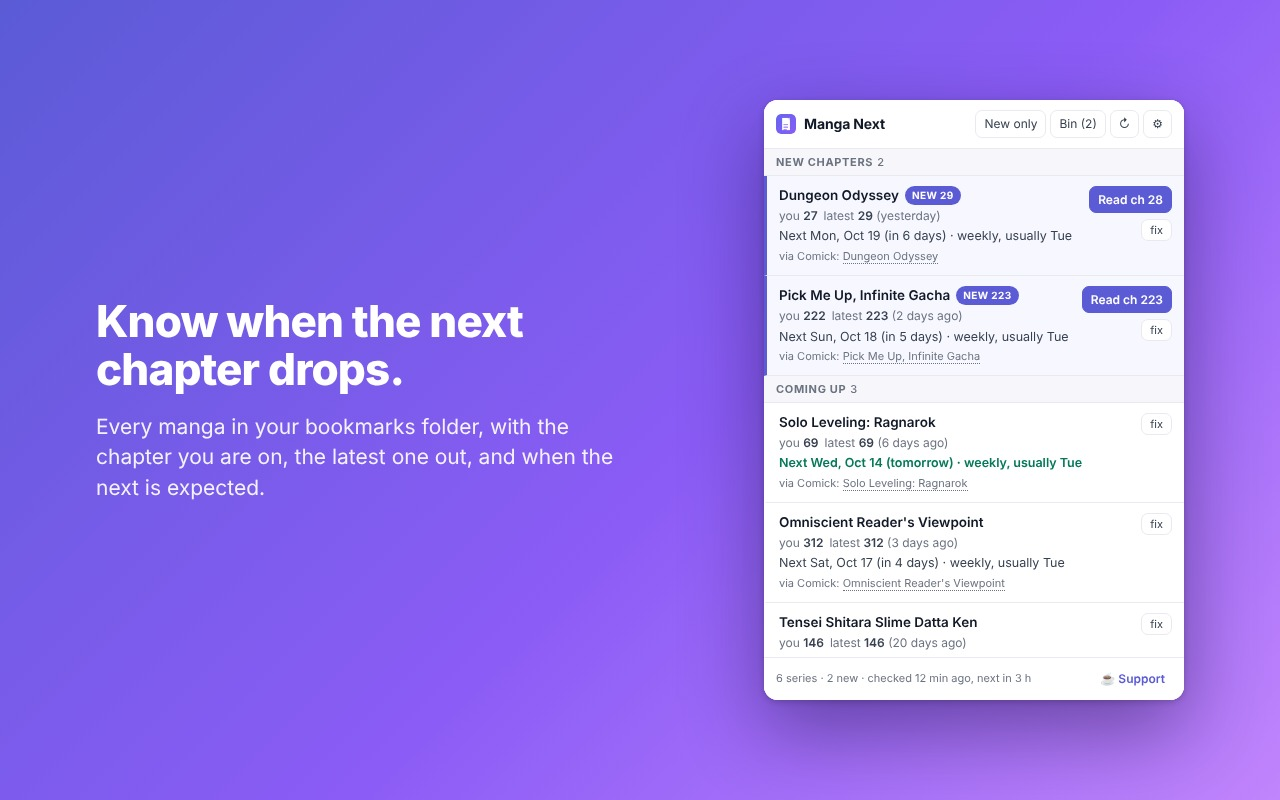
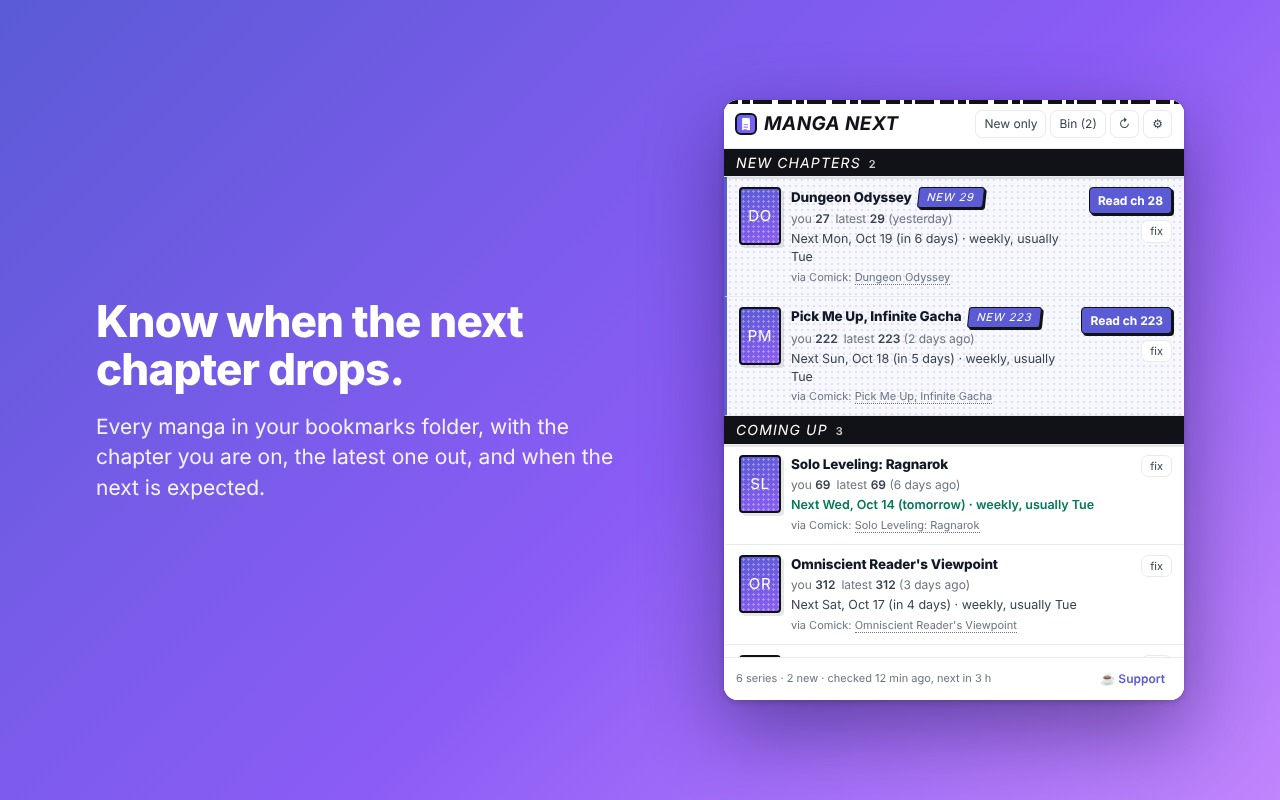
Manga-inspired visual pass, proprietary notice, fuller store description
Screentone textures, ink-black chapter-card section headers, condensed
italic display type for titles and pills, inked covers with offset
shadows, speed-line header rule. Popup widened to 460px. Store
screenshots re-rendered. LICENSE states all rights reserved. Store
description now walks through every feature.

Claude-Session: https://claude.ai/code/session_01XDhHnUEGSVbGAX6cEkKUHb

Changed region(s): [[0.5312, 0.125, 0.9375, 0.9062]]

diff --git a/manga-next/popup.css b/manga-next/popup.css
@@ -1,4 +1,8 @@
 :root {
+  --ink: #111118;
+  --paper: #fffdf7;
+  --tone: rgba(17, 17, 24, .10);
+  --display: Impact, "Arial Narrow Bold", "Franklin Gothic Demi Cond", "Arial Black", system-ui, sans-serif;
   --bg: #ffffff;
   --bg-2: #f7f7fb;
   --fg: #111827;
@@ -18,6 +22,9 @@
 }
 @media (prefers-color-scheme: dark) {
   :root {
+    --ink: #f3f4f6;
+    --paper: #15161c;
+    --tone: rgba(243, 244, 246, .08);
     --bg: #15161c;
     --bg-2: #1c1d25;
     --fg: #f3f4f6;
@@ -39,7 +46,7 @@
 * { box-sizing: border-box; }
 html, body { margin: 0; }
 body {
-  width: 420px;
+  width: 460px;
   max-height: 600px;
   display: flex;
   flex-direction: column;
@@ -63,12 +70,12 @@ header::before {
   content: '';
   position: absolute;
   left: 0; right: 0; top: 0;
-  height: 3px;
-  background: linear-gradient(90deg, #5b5bd6, #8b5cf6 50%, #ec4899);
+  height: 4px;
+  background: repeating-linear-gradient(90deg, var(--ink) 0 14px, transparent 14px 18px, var(--ink) 18px 26px, transparent 26px 29px, var(--ink) 29px 48px, transparent 48px 54px);
 }
 .brand { display: flex; align-items: center; gap: 8px; min-width: 0; }
-.brand img { border-radius: 5px; flex: none; }
-h1 { font-size: 14px; font-weight: 700; margin: 0; letter-spacing: -.01em; white-space: nowrap; }
+.brand img { border-radius: 5px; flex: none; outline: 2px solid var(--ink); outline-offset: -1px; }
+h1 { font: 700 19px/1 var(--display); margin: 0; letter-spacing: .02em; white-space: nowrap; text-transform: uppercase; font-style: italic; color: var(--ink); }
 .status { color: var(--muted); font-size: 11px; white-space: nowrap; }
 .status:not(:empty)::before { content: ' · '; }
 .actions { display: flex; align-items: center; gap: 4px; flex: none; }
@@ -96,19 +103,19 @@ main { flex: 1; overflow-y: auto; }
   position: sticky;
   top: 0;
   z-index: 1;
-  padding: 6px 12px 4px;
-  font-size: 11px;
-  font-weight: 700;
-  letter-spacing: .06em;
+  padding: 5px 12px 4px;
+  font: 400 14px/1.3 var(--display);
+  letter-spacing: .08em;
   text-transform: uppercase;
-  color: var(--muted);
-  background: var(--bg-2);
+  font-style: italic;
+  color: var(--paper);
+  background: var(--ink);
   border-bottom: 1px solid var(--border);
+  box-shadow: 0 2px 0 var(--tone);
 }
-.section .count { font-weight: 500; letter-spacing: 0; text-transform: none; margin-left: 4px; }
-.section.forYou { color: #a21caf; background: linear-gradient(90deg, color-mix(in srgb, #ec4899 10%, var(--bg-2)), var(--bg-2)); }
-@media (prefers-color-scheme: dark) { .section.forYou { color: #f0abfc; } }
-.row.suggest { border-left-color: #ec4899; }
+.section .count { font: 600 11px/1 system-ui, sans-serif; letter-spacing: 0; text-transform: none; font-style: normal; margin-left: 8px; opacity: .8; }
+.section.forYou { background: linear-gradient(90deg, #ec4899, #8b5cf6); color: #fff; }
+.row.suggest { border-left-color: #ec4899; background: radial-gradient(var(--tone) 1px, transparent 1.4px) 0 0 / 6px 6px; }
 .links { display: flex; align-items: center; gap: 8px; margin-top: 6px; flex-wrap: wrap; }
 .links a { color: var(--accent); font-size: 12px; text-decoration: none; }
 .links a:hover { text-decoration: underline; }
@@ -125,47 +132,57 @@ button.ghost:hover { border-color: var(--border); color: var(--fg); background: 
   border-bottom: 1px solid var(--border);
   border-left: 3px solid transparent;
 }
-.row.new { border-left-color: var(--accent); background: color-mix(in srgb, var(--accent-soft) 45%, var(--bg)); }
+.row.new {
+  border-left-color: var(--accent);
+  background:
+    radial-gradient(var(--tone) 1px, transparent 1.4px) 0 0 / 6px 6px,
+    color-mix(in srgb, var(--accent-soft) 45%, var(--bg));
+}
 .row.warn { border-left-color: var(--warn); }
 .row.bad { border-left-color: var(--bad); }
 .row .main { min-width: 0; cursor: pointer; display: flex; gap: 10px; align-items: flex-start; }
 .row .body { min-width: 0; flex: 1; }
 .cover {
   flex: none;
-  width: 40px;
-  height: 56px;
-  border-radius: 6px;
+  width: 42px;
+  height: 58px;
+  border-radius: 4px;
   overflow: hidden;
-  background: linear-gradient(160deg, #5b5bd6, #8b5cf6);
+  background: radial-gradient(rgba(255,255,255,.35) 1px, transparent 1.4px) 0 0 / 5px 5px, linear-gradient(160deg, #5b5bd6, #8b5cf6);
   color: #fff;
-  font-weight: 700;
-  font-size: 13px;
+  font: 400 15px/1 var(--display);
+  letter-spacing: .04em;
   display: flex;
   align-items: center;
   justify-content: center;
-  box-shadow: 0 1px 3px rgba(0,0,0,.25);
+  border: 2px solid var(--ink);
+  box-shadow: 3px 3px 0 var(--tone);
 }
 .cover img { width: 100%; height: 100%; object-fit: cover; display: block; }
 .row .main:hover .name { color: var(--accent); }
 .row .title { display: flex; align-items: center; gap: 6px; min-width: 0; }
-.row .name { font-weight: 600; font-size: 13.5px; overflow: hidden; text-overflow: ellipsis; white-space: nowrap; transition: color .12s; }
+.row .name { font-weight: 800; font-size: 13.5px; letter-spacing: -.01em; overflow: hidden; text-overflow: ellipsis; white-space: nowrap; transition: color .12s; }
 .row .side { display: flex; flex-direction: column; align-items: flex-end; gap: 6px; }
 
 .pill {
   flex: none;
-  font-size: 10px;
-  font-weight: 700;
-  letter-spacing: .04em;
-  padding: 2px 7px;
-  border-radius: 999px;
+  font: 400 11px/1.2 var(--display);
+  letter-spacing: .08em;
+  text-transform: uppercase;
+  font-style: italic;
+  padding: 3px 8px;
+  border-radius: 3px;
   background: var(--accent);
   color: var(--accent-fg);
   white-space: nowrap;
+  border: 1.5px solid var(--ink);
+  box-shadow: 2px 2px 0 var(--ink);
+  transform: skew(-6deg);
 }
 .pill.warn { background: var(--warn-soft); color: var(--warn); }
 .pill.bad { background: var(--bad-soft); color: var(--bad); }
 .pill.ok { background: var(--ok-soft); color: var(--ok); }
-.pill.muted { background: var(--bg-2); color: var(--muted); border: 1px solid var(--border); }
+.pill.muted { background: var(--bg-2); color: var(--muted); border-color: var(--border); box-shadow: none; transform: none; font-style: normal; }
 
 .meta { color: var(--muted); font-size: 12px; margin-top: 2px; display: flex; gap: 6px; flex-wrap: wrap; }
 .meta b { color: var(--fg-2); font-weight: 600; }
@@ -180,12 +197,14 @@ button.ghost:hover { border-color: var(--border); color: var(--fg); background: 
 
 button.read {
   background: var(--accent);
-  border-color: var(--accent);
+  border: 1.5px solid var(--ink);
+  box-shadow: 2px 2px 0 var(--ink);
   color: var(--accent-fg);
-  font-weight: 600;
+  font-weight: 700;
   white-space: nowrap;
+  border-radius: 4px;
 }
-button.read:hover { filter: brightness(1.08); color: var(--accent-fg); }
+button.read:hover { filter: brightness(1.08); color: var(--accent-fg); transform: translate(1px, 1px); box-shadow: 1px 1px 0 var(--ink); }
 button.fix, button.restore { font-size: 11px; padding: 3px 8px; }
 
 .fixbox { grid-column: 1 / -1; display: none; gap: 6px; }
@@ -203,7 +222,7 @@ button.fix, button.restore { font-size: 11px; padding: 3px 8px; }
 .fixbox input:focus { outline: 2px solid var(--accent); outline-offset: 0; border-color: transparent; }
 
 .empty { padding: 36px 20px; color: var(--muted); text-align: center; line-height: 1.6; }
-.empty strong { color: var(--fg); display: block; margin-bottom: 4px; font-size: 14px; }
+.empty strong { color: var(--ink); display: block; margin-bottom: 6px; font: 400 20px/1.1 var(--display); text-transform: uppercase; font-style: italic; letter-spacing: .03em; }
 .empty a { color: var(--accent); }
 
 .binbar {
@@ -219,6 +238,8 @@ button.fix, button.restore { font-size: 11px; padding: 3px 8px; }
 }
 
 footer {
+  background-image: radial-gradient(var(--tone) 1px, transparent 1.4px);
+  background-size: 6px 6px;
   display: flex;
   align-items: center;
   justify-content: space-between;

diff --git a/manga-next/store/frame.html b/manga-next/store/frame.html
@@ -4,7 +4,7 @@ body{background:linear-gradient(135deg,#5b5bd6 0%,#8b5cf6 55%,#c084fc 100%);disp
 .copy{max-width:520px}
 h1{font-size:44px;line-height:1.1;margin:0 0 18px;letter-spacing:-.02em;font-weight:800}
 p{font-size:21px;line-height:1.45;margin:0;opacity:.92}
-.frame{width:420px;height:600px;border-radius:14px;overflow:hidden;box-shadow:0 30px 80px rgba(20,10,60,.45),0 2px 6px rgba(0,0,0,.2);background:#fff;flex:none}
+.frame{width:460px;height:600px;border-radius:14px;overflow:hidden;box-shadow:0 30px 80px rgba(20,10,60,.45),0 2px 6px rgba(0,0,0,.2);background:#fff;flex:none}
 .frame.wide{width:640px;height:620px}
 iframe{border:0;width:100%;height:100%;display:block}
 </style></head><body>

diff --git a/manga-next/store/listing.md b/manga-next/store/listing.md
@@ -17,18 +17,35 @@ Know when the next chapter of every manga in your bookmarks folder comes out. No
 
 You already bookmark the chapter you stopped at. Manga Next does the rest.
 
-It reads the bookmarks in your "Manga" folder and, for every series, shows:
+WHAT IT SHOWS
+For every manga in your bookmarks folder:
 • the chapter you are on and the latest chapter out in English
-• when the next chapter is expected, worked out from the series' real release rhythm ("weekly, usually Tuesday")
+• when the next chapter is expected, worked out from the series' real release rhythm ("weekly, usually Tuesday"), and how late it is when a group slips
 • whether a series is on hiatus, finished, or simply quiet for longer than usual
+• the series cover, so your list looks like your shelf
 
-A badge on the icon counts the series with a new chapter waiting. A notification tells you the moment one appears. One click opens the next chapter.
+WHEN SOMETHING DROPS
+• a badge on the icon counts the series with a new chapter waiting
+• a notification the moment one appears
+• "Read ch N" opens the next unread chapter in one click
+• smart timing: each series is checked two hours before its expected release and then hourly until the chapter lands, so you rarely wait more than an hour after a drop
 
-Keeps your folder tidy: when you bookmark a newer chapter, the older bookmark of the same series is removed automatically. Everything removed goes to a bin for 60 days, with one-click restore.
+ZERO UPKEEP
+• keep bookmarking the chapter you stopped at; your latest save is where you are
+• the previous bookmark of that series is tidied away automatically, one bookmark per series
+• everything removed goes to a bin for 60 days with one-click restore, so a wrong delete is never final
+• no folder yet? It finds the one you already use, or creates one for you
 
-Works with any reading site. Release dates come from Comick and MangaUpdates, two public databases that cover almost every scanlation group.
+DISCOVER
+• "You might like" suggests series read alongside the ones you follow, with Read ch 1, the series page, Skip for 30 days, or Not for me
 
-No account. No sign-in. Nothing leaves your browser except the series title sent to those two databases to look up dates.
+WORKS ANYWHERE
+• any reading site. Release dates come from Comick and MangaUpdates, two public databases covering almost every scanlation group
+• wrong match? Fix it in one click by searching another name or pasting a link
+• Alt+Shift+M opens the popup from anywhere
+
+NO ACCOUNT. NO TRACKING.
+Runs entirely in your browser. Nothing leaves it except the series title sent to those two databases to look up dates.
 
 **Homepage:** https://github.com/aafonsodias/aafonsodias.github.io/tree/main/manga-next
 **Support URL:** https://github.com/aafonsodias/aafonsodias.github.io/issues
@@ -58,6 +75,8 @@ Ready-made 1280×800 screenshots are in `store/screenshots/` (regenerate with `s
 **Data usage:** Tick nothing under "What user data do you plan to collect?" The extension collects no personally identifiable information, no health, financial, authentication, personal communications, location, web history, user activity, or website content. Then certify the three disclosures.
 
 **Privacy policy URL:** https://aafonsodias.github.io/manga-next/privacy.html
+
+**Rights:** the code is proprietary (see `LICENSE`). Add the line "© 2026 aafonsodias. All rights reserved." at the end of the description if you want it shown on the listing.
 
 ## Distribution
 
